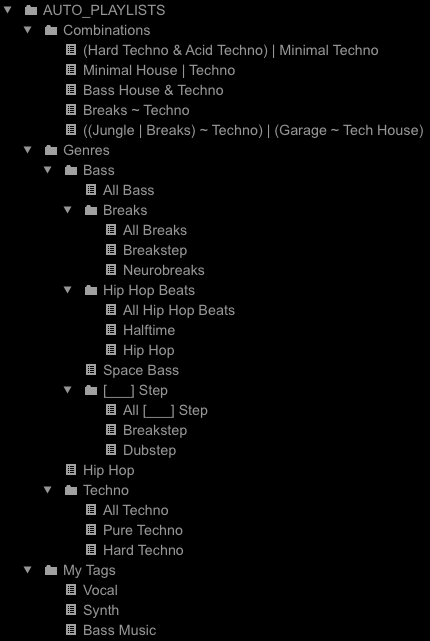
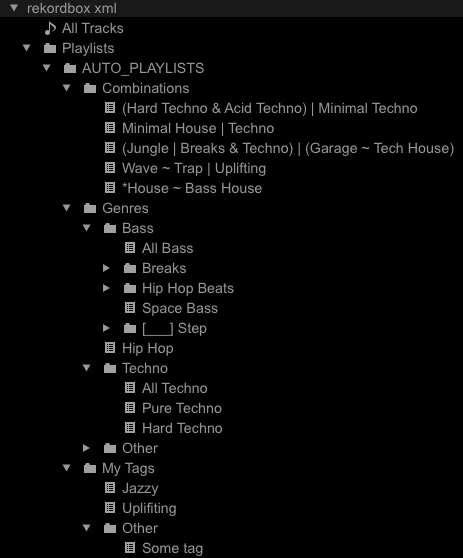
Combiner supports wildcards (#53)
Insert "*" characters to enable wildcards in your tags

diff --git a/src/djtools/rekordbox/tag_parsers.py b/src/djtools/rekordbox/tag_parsers.py
@@ -137,7 +137,7 @@ class BooleanNode:
     
     def __call__(
         self, tracks: Dict[str, List[Tuple[str, List[str]]]]
-    ) -> List[str]:
+    ) -> Set[str]:
         """Evaluates the boolean algebraic subexpression.
 
         Args:
@@ -162,14 +162,44 @@ class BooleanNode:
             if len(self.tracks):
                 tracks_A = self.tracks.pop(0)
             else:
-                tracks_A = set(tracks.get(self.tags.pop(0), {}).keys())
+                tracks_A = self._get_tag_tracks(
+                    tag=self.tags.pop(0), tracks=tracks
+                )
             if len(self.tracks):
                 tracks_B = self.tracks.pop(0)
             else:
-                tracks_B = set(tracks.get(self.tags.pop(0), {}).keys())
-            self.tracks.insert(0, set(operator(tracks_A, tracks_B)))
+                tracks_B = self._get_tag_tracks(
+                    tag=self.tags.pop(0), tracks=tracks
+                )
+            self.tracks.insert(0, operator(tracks_A, tracks_B))
         
         return next(iter(self.tracks), set())
+
+    def _get_tag_tracks(
+        self, tag: str, tracks: Dict[str, List[Tuple[str, List[str]]]]
+    ) -> Set[str]:
+        """Gets set of track IDs for the provided tag.
+
+        If the tag contains a wildcard, denoted with "*", then the union of
+        track IDs with a tag containing the provided tag as a substring is
+        returned.
+
+        Args:
+            tag: Tag for indexing tracks.
+            tracks: Map of tags to lists of (track_id, tags) tuples.
+
+        Returns:
+            Set of track IDs for the provided tag.
+        """
+        if "*" in tag:
+            exp = re.compile(r".*".join(tag.split("*")))
+            track_ids = set()
+            for k in tracks:
+                if re.search(exp, k):
+                    track_ids.update(set(tracks[k].keys()))
+            return track_ids
+        else:
+            return set(tracks.get(tag, {}).keys())
 
 
 class Combiner(TagParser):

diff --git a/setup.py b/setup.py
@@ -71,7 +71,7 @@ EXTRAS = {
 
 setup(
     name='dj_beatcloud',
-    version='2.3.0-beta3',
+    version='2.3.0-beta4',
     description='DJ Tools is a library for managing a collection of MP3 ' \
                 'and Rekordbox XML files.',
     long_description=LONG_DESCRIPTION,

diff --git a/src/djtools/rekordbox/rekordbox_playlist_builder.py b/src/djtools/rekordbox/rekordbox_playlist_builder.py
@@ -10,7 +10,6 @@ enable the 'Add "My Tag" to the "Comments"' setting under
 "Preferences > Advanced > Browse".
 """
 from collections import defaultdict
-from functools import reduce
 import json
 import logging
 import os

diff --git a/src/djtools/rekordbox/README.md b/src/djtools/rekordbox/README.md
@@ -35,21 +35,26 @@ Here is an example `rekordbox_playlists.json`:
         "playlists": [
             "(Hard Techno & Acid Techno) | Minimal Techno",
             "Minimal House | Techno",
-            "Bass House & Techno",
-            "Breaks ~ Techno",
-            "((Jungle | Breaks) ~ Techno) | (Garage ~ Tech House)"
+            "(Jungle | Breaks & Techno) | (Garage ~ Tech House)",
+            "Wave ~ Trap | Uplifting",
+            "*House ~ Bass House"
         ]
     },
-
-    "MyTagsParser": {
+    "MyTagParser": {
         "name": "My Tags",
         "playlists": [
-            "Vocal",
-            "Synth",
-            "Bass Music"
+            {
+                "name": "_ignore",
+                "playlists": [
+                    "Vocal",
+                    "Wave"
+                ]
+            },
+            "Jazzy",
+            "Uplifiting"
         ]
     },
-    "GenreTagsParser": {
+    "GenreTagParser": {
         "name": "Genres",
         "playlists": [
             {
